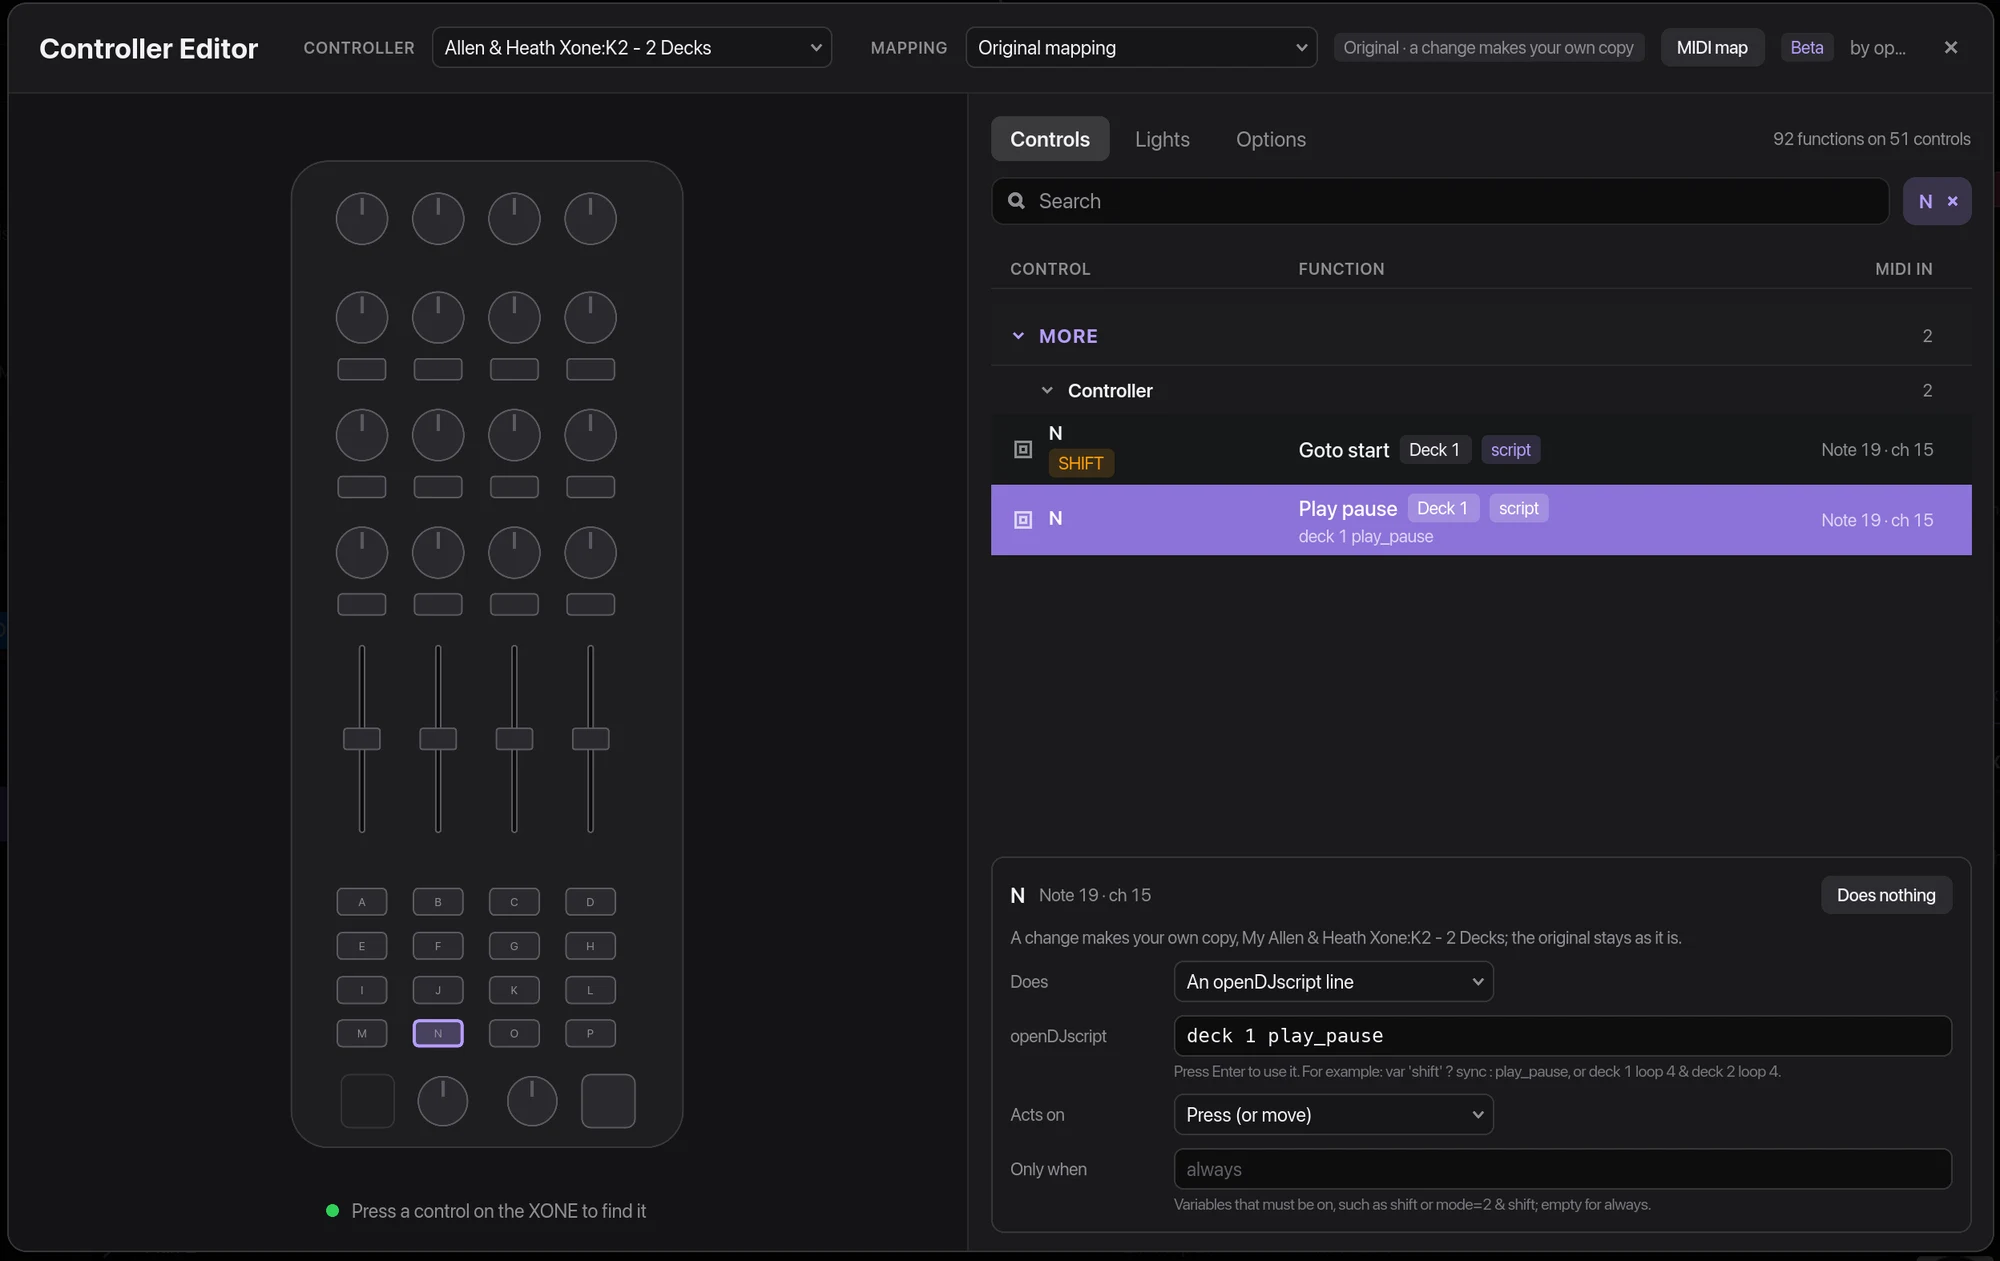
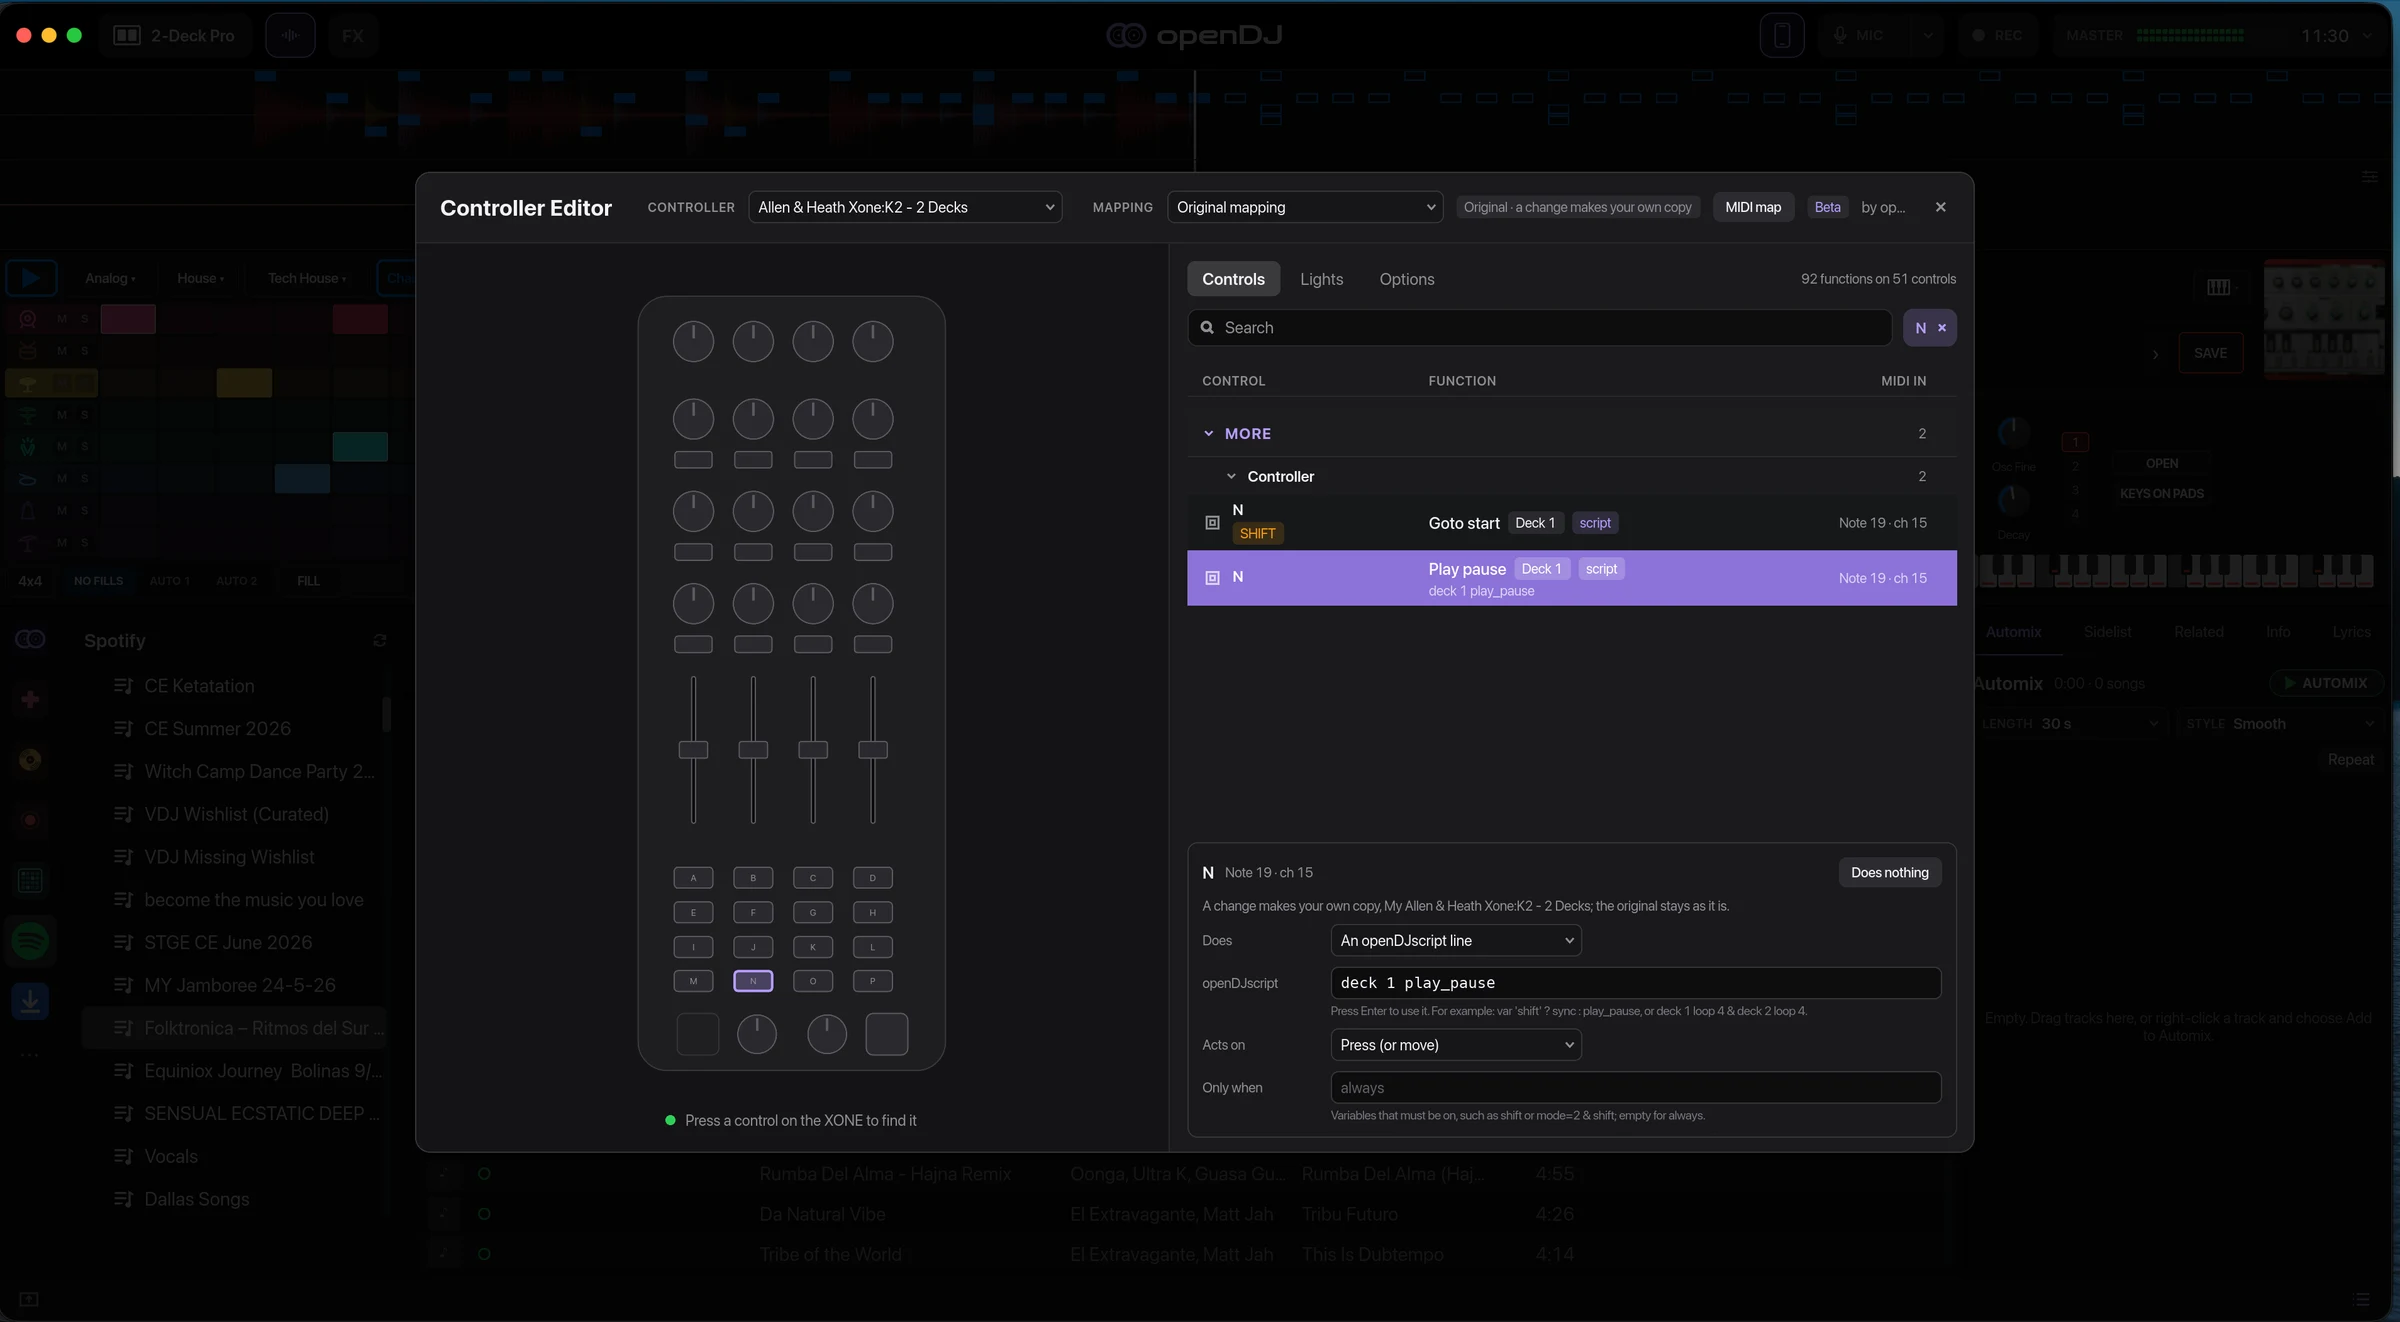
Website: Controller Editor screenshot, drop the Spotify one
Part of #618

Claude-Session: https://claude.ai/code/session_01SxHh7emHYK1HX484mEx9JK

diff --git a/website/index.html b/website/index.html
@@ -73,8 +73,7 @@
         <figure><a href="assets/home/hero.webp"><img src="assets/home/hero.webp" width="2400" height="1318" loading="lazy" alt="The 2-Deck Pro layout"></a><figcaption>The 2-Deck Pro layout</figcaption></figure>
         <figure><a href="assets/home/jam.webp"><img src="assets/home/jam.webp" width="2400" height="1323" loading="lazy" alt="Jam: the Groove Box on one deck and an Arturia Acid V synth on the other, with the chord menu open"></a><figcaption>Jam: the Groove Box and a plugin synth with chords</figcaption></figure>
         <figure><a href="assets/home/health.webp"><img src="assets/home/health.webp" width="2400" height="1328" loading="lazy" alt="Collection Health"></a><figcaption>Collection Health</figcaption></figure>
-        <figure><a href="assets/home/sources.webp"><img src="assets/home/sources.webp" width="1812" height="990" loading="lazy" alt="Browsing Spotify"></a><figcaption>Browsing Spotify</figcaption></figure>
-        <figure><a href="assets/home/controller-editor.webp"><img src="assets/home/controller-editor.webp" width="2000" height="1261" loading="lazy" alt="Controller Editor"></a><figcaption>Controller Editor</figcaption></figure>
+        <figure><a href="assets/home/controller-editor.webp"><img src="assets/home/controller-editor.webp" width="2400" height="1322" loading="lazy" alt="Controller Editor"></a><figcaption>Controller Editor</figcaption></figure>
         <figure><a href="assets/home/groovebox.webp"><img src="assets/home/groovebox.webp" width="1550" height="838" loading="lazy" alt="The Groove Box"></a><figcaption>The Groove Box</figcaption></figure>
       </div>
     </section>
